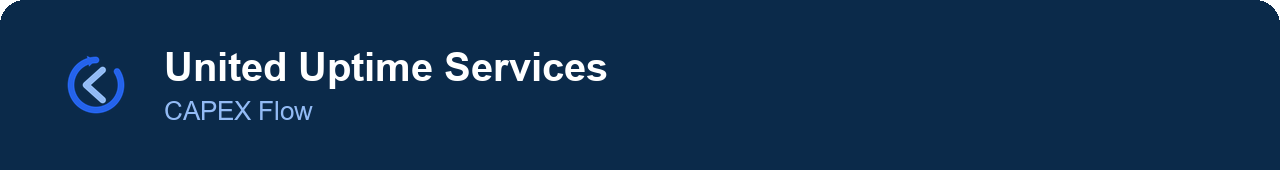
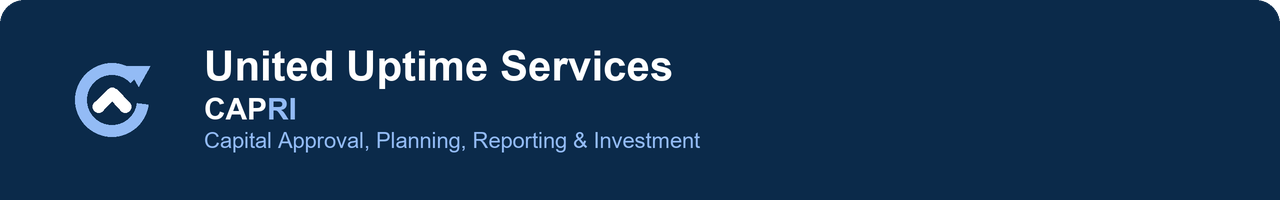
feat(brand): rename CAPEX Flow to CAPRI
Product is now CAPRI — Capital Approval, Planning, Reporting & Investment.
Per the spec in docs/superpowers/specs/2026-07-30-capri-rebrand-design.md:

- Two-tone wordmark (CAP + RI) via a new components/Wordmark.tsx, used by the
  sidebar, the login card, and the email-editor replica so the treatment can't
  drift. Accent reuses brand-sky/brand-blue rather than adding the brand
  sheet's #5B9BFF for two letters.
- Logo.tsx and favicon.svg realigned to brand direction 1d on its real
  100-unit viewBox. The shipped mark had drifted: its chevron pointed left and
  read as a back-arrow. It now points up, as 1d always specified.
- Email header band regenerated at 640x100 to carry the expanded name, by a
  new committed generator (backend/tools/gen_email_assets.py) — the old PNGs
  had none. Buttons and the closing strip are untouched; the generator's
  docstring records that --all yields pills a few px wider than the committed
  ones, which would need email_frame.BUTTONS updated.
- CID prefix capexflow- -> capri-, PDF footer, page title, Outlook temp-dir
  prefix, launcher renamed to "Start CAPRI.cmd", and the docs.
- brand/ asset paths fixed in four comments + CLAUDE.md: the new bundle lives
  under brand/project/.

CAPEX stays in the code on purpose — CapexRequest, capex_requests, CX000001
numbering, capex_dev.db, the repo folder — because a request still is a
capital expenditure. No migration.

Verified: backend pytest 236 passed; frontend tsc clean, vitest 91 passed,
[…]

Changed region(s): [[0.0312, 0.2353, 0.5625, 0.7647]]

diff --git a/frontend/src/components/Logo.tsx b/frontend/src/components/Logo.tsx
@@ -1,8 +1,11 @@
 /**
- * UUS CAPEX Flow logo mark — direction "1d Capital Cycle":
+ * UUS CAPRI logo mark — brand direction "1d Capital Cycle":
  * a circular flow arrow around a rising chevron (capital moving through the
- * approval cycle). `tile` renders it on a navy rounded-square app-icon tile;
- * without it the glyph is transparent for use on dark surfaces.
+ * approval cycle). Geometry is taken verbatim from
+ * brand/project/UUS CAPEX Flow - Logo.dc.html. `tile` renders it on a navy
+ * rounded-square app-icon tile; without it the glyph is transparent for use on
+ * dark surfaces. Every consumer draws it on navy, so the mark uses the brand's
+ * navy-surface colours (sky arc, white chevron).
  */
 export function Logo({
   size = 40,
@@ -17,28 +20,28 @@ export function Logo({
     <svg
       width={size}
       height={size}
-      viewBox="0 0 48 48"
+      viewBox="0 0 100 100"
       fill="none"
       className={className}
       role="img"
-      aria-label="UUS CAPEX Flow"
+      aria-label="UUS CAPRI"
     >
-      {tile && <rect width="48" height="48" rx="12" fill="#0B2A4A" />}
+      {tile && <rect width="100" height="100" rx="23" fill="#0B2A4A" />}
       {/* circular flow arrow (cycle) */}
       <path
-        d="M36.6 15.9 A15 15 0 1 1 24 9"
-        stroke="#2563EB"
-        strokeWidth="4"
+        d="M74 28 A33 33 0 1 0 82 54"
+        stroke="#93BBF5"
+        strokeWidth="11"
         strokeLinecap="round"
         fill="none"
       />
       {/* arrowhead at the head of the cycle */}
-      <path d="M24 9 L18.5 6.5 L19.8 13 Z" fill="#2563EB" />
+      <polygon points="63,20 84,20 74,38" fill="#93BBF5" />
       {/* rising chevron */}
-      <path
-        d="M28 15 L18 24 L28 33"
-        stroke="#93BBF5"
-        strokeWidth="4"
+      <polyline
+        points="38,56 50,44 62,56"
+        stroke="#ffffff"
+        strokeWidth="11"
         strokeLinecap="round"
         strokeLinejoin="round"
         fill="none"

diff --git a/frontend/src/routes/admin/EmailTemplateEditor.tsx b/frontend/src/routes/admin/EmailTemplateEditor.tsx
@@ -87,7 +87,13 @@ export default function EmailTemplateEditor() {
               <Logo size={40} />
               <div style={{ fontFamily: EMAIL_FONT }}>
                 <div className="text-xl font-bold text-white">United Uptime Services</div>
-                <div className="text-[13px] tracking-wide" style={{ color: '#93BBF5' }}>CAPEX Flow</div>
+                <div className="text-[13px] font-bold tracking-wide">
+                  <span className="text-white">CAP</span>
+                  <span style={{ color: '#93BBF5' }}>RI</span>
+                </div>
+                <div className="text-[11px]" style={{ color: '#93BBF5' }}>
+                  Capital Approval, Planning, Reporting &amp; Investment
+                </div>
               </div>
             </div>
             <QuillEditor value={data.body_html} onChange={(html) => { setBody(html); markDirty() }}
@@ -106,7 +112,7 @@ export default function EmailTemplateEditor() {
             <div className="px-7 py-4 text-xs" style={{
               borderTop: '1px solid #E2E8F0', color: '#64748B', fontFamily: EMAIL_FONT,
             }}>
-              Automated message from CAPEX Flow — please do not reply.
+              Automated message from CAPRI — please do not reply.
             </div>
           </div>
         </div>

diff --git a/frontend/src/routes/LoginPage.tsx b/frontend/src/routes/LoginPage.tsx
@@ -8,6 +8,7 @@ import { Button } from '../components/ui/Button'
 import { Input } from '../components/ui/Input'
 import { PasswordInput } from '../components/ui/PasswordInput'
 import { Logo } from '../components/Logo'
+import { Wordmark } from '../components/Wordmark'
 
 export default function LoginPage() {
   const [email, setEmail] = useState('')
@@ -38,7 +39,10 @@ export default function LoginPage() {
         <div className="mb-6 flex flex-col items-center text-center">
           <Logo size={52} tile className="mb-3" />
           <div className="text-xl font-bold text-fg">United Uptime Services</div>
-          <div className="text-sm text-muted">CAPEX Flow</div>
+          <Wordmark tone="light" className="text-base font-bold tracking-wide" />
+          <div className="mt-1 text-xs text-muted">
+            Capital Approval, Planning, Reporting &amp; Investment
+          </div>
         </div>
         <form className="space-y-4" onSubmit={(e) => { e.preventDefault(); mutation.mutate() }}>
           <div className="space-y-1">

diff --git a/frontend/src/components/Wordmark.tsx b/frontend/src/components/Wordmark.tsx
@@ -1,0 +1,21 @@
+/**
+ * CAPRI wordmark — "CAP" in the base colour, "RI" in the accent, per brand
+ * direction 1d (brand/project/UUS CAPEX Flow - Logo.dc.html).
+ *
+ * `tone` picks the surface: `dark` for navy (sidebar, email header band),
+ * `light` for white cards (login). The split lives here so the three
+ * consumers can't drift apart.
+ */
+export function Wordmark({ tone, className = '' }: {
+  tone: 'dark' | 'light'
+  className?: string
+}) {
+  const cap = tone === 'dark' ? 'text-white' : 'text-brand-navy'
+  const ri = tone === 'dark' ? 'text-brand-sky' : 'text-brand-blue'
+  return (
+    <span className={className}>
+      <span className={cap}>CAP</span>
+      <span className={ri}>RI</span>
+    </span>
+  )
+}

diff --git a/frontend/src/components/BrandMark.tsx b/frontend/src/components/BrandMark.tsx
@@ -1,6 +1,6 @@
 /**
- * The four UUS CAPEX Flow logo marks from the brand assets
- * (brand/UUS CAPEX Flow - Logo.dc.html), drawn for dark/navy surfaces:
+ * The four UUS CAPRI logo marks from the brand assets
+ * (brand/project/UUS CAPEX Flow - Logo.dc.html), drawn for dark/navy surfaces:
  *  - cycle  (1d "Capital Cycle")  — primary mark, same as components/Logo.tsx
  *  - ascent (twin rising chevrons) — used for the Requests section
  *  - check  (double checkmark)     — used for the Admin section
@@ -26,7 +26,7 @@ export function BrandMark({
     fill: 'none' as const,
     className,
     role: 'img',
-    'aria-label': 'UUS CAPEX Flow',
+    'aria-label': 'UUS CAPRI',
   }
   if (variant === 'ascent') {
     return (

diff --git a/frontend/src/components/AppShell.tsx b/frontend/src/components/AppShell.tsx
@@ -18,6 +18,7 @@ import { logout } from '../api/auth'
 import { Button } from './ui/Button'
 import { ThemeToggle } from './ThemeToggle'
 import { Logo } from './Logo'
+import { Wordmark } from './Wordmark'
 
 interface NavItem {
   to: string
@@ -82,7 +83,7 @@ export function AppShell() {
           <Logo size={36} />
           <div>
             <div className="font-bold leading-tight text-white">United Uptime Services</div>
-            <div className="text-xs text-brand-sky">CAPEX Flow</div>
+            <Wordmark tone="dark" className="text-xs font-semibold tracking-wide" />
           </div>
         </div>
         <nav className="flex-1 space-y-6 overflow-y-auto px-3 py-4">

diff --git a/frontend/src/routes/admin/EmailTemplatesPage.tsx b/frontend/src/routes/admin/EmailTemplatesPage.tsx
@@ -8,7 +8,7 @@ export default function EmailTemplatesPage() {
   const { data = [] } = useQuery({ queryKey: ['email-templates'], queryFn: listEmailTemplates })
   return (
     <div className="max-w-3xl">
-      <BrandCard title="Email Templates" subtitle="Customize the emails CAPEX Flow sends to users" mark="emailTemplates">
+      <BrandCard title="Email Templates" subtitle="Customize the emails CAPRI sends to users" mark="emailTemplates">
         <EmailDeliveryMode />
         <div className="space-y-2">
           {data.map((t) => (

diff --git a/frontend/src/components/ActionIcons.tsx b/frontend/src/components/ActionIcons.tsx
@@ -1,6 +1,6 @@
-// Custom UUS CAPEX Flow in-page icons — approval actions, table/row controls,
+// Custom UUS CAPRI in-page icons — approval actions, table/row controls,
 // and workflow status. Same line style as NavIcons (24px grid, rounded joins);
-// paths from brand/UUS CAPEX Flow Nav Icons.html ("Action & status icons").
+// paths from brand/project/UUS CAPEX Flow Nav Icons.html ("Action & status icons").
 // Icons use `currentColor` so each adopts its button/badge text color.
 
 export interface IconProps {

diff --git a/frontend/src/components/NavIcons.tsx b/frontend/src/components/NavIcons.tsx
@@ -1,6 +1,6 @@
-// Custom UUS CAPEX Flow navigation icons — one distinct symbol per page.
+// Custom UUS CAPRI navigation icons — one distinct symbol per page.
 // Drawn in a single line style (24px grid, rounded joins) per brand doc
-// `brand/UUS CAPEX Flow Nav Icons.html`. Icons inherit `currentColor` so the
+// `brand/project/UUS CAPEX Flow Nav Icons.html`. Icons inherit `currentColor` so the
 // sidebar's active/inactive text color applies, matching the prior lucide set.
 
 export interface NavIconProps {

diff --git a/frontend/index.html b/frontend/index.html
@@ -4,7 +4,7 @@
     <meta charset="UTF-8" />
     <meta name="viewport" content="width=device-width, initial-scale=1.0" />
     <link rel="icon" type="image/svg+xml" href="/favicon.svg" />
-    <title>CAPEX Flow — United Uptime Services</title>
+    <title>CAPRI — United Uptime Services</title>
     <script>
       // Apply saved theme before render to avoid a flash of the wrong theme.
       try {

diff --git a/frontend/src/index.css b/frontend/src/index.css
@@ -4,7 +4,7 @@
 @custom-variant dark (&:where(.dark, .dark *));
 
 @theme {
-  /* Brand palette (UUS CAPEX Flow brand sheet) */
+  /* Brand palette (UUS CAPRI brand sheet) */
   --color-brand-navy: #0B2A4A;
   --color-brand-blue: #2563EB;
   --color-brand-sky: #93BBF5;

diff --git a/backend/tools/gen_email_assets.py b/backend/tools/gen_email_assets.py
@@ -1,0 +1,182 @@
+"""Regenerate the baked email-chrome PNGs in ``backend/app/assets``.
+
+Classic Outlook renders mail with Word's engine: it cannot draw rounded corners
+from CSS and mangles VML on send, but it renders images perfectly. So the
+rounded chrome — the navy header band (logo mark + wordmark + tagline), the
+white closing strip, and each CTA pill — is baked into PNGs.
+
+The images are saved at **2x** their display size and scaled down by the
+``width``/``height`` attributes in ``email_frame.py``, which keeps them crisp on
+high-DPI screens. Everything is drawn at 4x and downsampled with LANCZOS to get
+antialiased arcs and text.
+
+Run from the ``backend`` directory::
+
+    python tools/gen_email_assets.py            # header only (the usual case)
+    python tools/gen_email_assets.py --all      # every asset
+    python tools/gen_email_assets.py --all --out /tmp/x   # dry run elsewhere
+
+Only the header carries the product name, so a rename needs nothing else
+regenerated. Commit the PNGs — they are not built at runtime.
+
+Caveat on ``--all``: the committed button pills predate this script and came out
+4-5px narrower than it produces (their original padding/hinting differed
+slightly). Regenerating them means updating the display widths in
+``email_frame.BUTTONS`` to whatever this script prints, or the ``<img width>``
+attribute will stretch the pill.
+"""
+
+import argparse
+import math
+import os
+
+from PIL import Image, ImageDraw, ImageFont
+
+NAVY = "#0B2A4A"
+BLUE = "#2563EB"
+SKY = "#93BBF5"
+WHITE = "#ffffff"
+
+FONT_BOLD = "C:/Windows/Fonts/arialbd.ttf"
+FONT_REG = "C:/Windows/Fonts/arial.ttf"
+
+SS = 4          # supersample: draw at 4x display, save at 2x
+SAVE = 2
+RADIUS = 12     # corner radius in display px
+
+ASSETS = os.path.join(os.path.dirname(__file__), "..", "app", "assets")
+
+# Button pills: display width comes out of the label, so it is printed for the
+# BUTTONS table in email_frame.py rather than hard-coded here.
+BUTTONS = {
+    "email_btn_assigned.png": "Review & approve",
+    "email_btn_approved.png": "View the request",
+    "email_btn_rejected.png": "Open the request",
+    "email_btn_finance_ready.png": "Complete the finance section",
+}
+
+
+def _font(path, size):
+    return ImageFont.truetype(path, int(size * SS))
+
+
+def _save(img, path):
+    w, h = img.size
+    out = img.resize((w * SAVE // SS, h * SAVE // SS), Image.LANCZOS)
+    out.save(path)
+    return out.size
+
+
+def _mark(d, x, y, size):
+    """Draw the 1d "Capital Cycle" mark: sky cycle arrow + white chevron.
+
+    Geometry is the brand file's 100-unit viewBox
+    (brand/project/UUS CAPEX Flow - Logo.dc.html, direction 1d), mapped onto a
+    `size`-wide box whose top-left corner is (x, y). Display units in, 4x out.
+    """
+    def px(v):
+        return (x + v * size / 100.0) * SS
+
+    def py(v):
+        return (y + v * size / 100.0) * SS
+
+    stroke = int(11 * size / 100.0 * SS)
+
+    # Cycle arc: the brand's SVG arc is a circle centred on (50,50) with r=33,
+    # open at the upper right where the arrowhead sits. PIL sweeps clockwise
+    # from `start` to `end` with 0 deg at 3 o'clock.
+    d.arc([px(50 - 33), py(50 - 33), px(50 + 33), py(50 + 33)],
+          start=math.degrees(math.atan2(4, 32)),
+          end=360 + math.degrees(math.atan2(-22, 24)),
+          fill=SKY, width=stroke)
+
+    # Arrowhead wedge at the head of the cycle.
+    d.polygon([(px(63), py(20)), (px(84), py(20)), (px(74), py(38))], fill=SKY)
+
+    # Rising chevron, round caps and join.
+    pts = [(px(38), py(56)), (px(50), py(44)), (px(62), py(56))]
+    d.line(pts, fill=WHITE, width=stroke, joint="curve")
+    for cx, cy in (pts[0], pts[2]):
+        r = stroke / 2
+        d.ellipse([cx - r, cy - r, cx + r, cy + r], fill=WHITE)
+
+
+def header(path, w=640, h=100):
+    img = Image.new("RGBA", (w * SS, h * SS), (0, 0, 0, 0))
+    d = ImageDraw.Draw(img)
+
+    # Round the TOP corners only: rounded rect, then square off the bottom.
+    d.rounded_rectangle([0, 0, w * SS - 1, h * SS - 1],
+                        radius=RADIUS * SS, fill=NAVY)
+    d.rectangle([0, (h - RADIUS) * SS, w * SS - 1, h * SS - 1], fill=NAVY)
+
+    mark = 56
+    _mark(d, 28, (h - mark) / 2, mark)
+
+    f_company = _font(FONT_BOLD, 21)
+    f_word = _font(FONT_BOLD, 15)
+    f_tag = _font(FONT_REG, 11)
+
+    text_x = (28 + mark + 18) * SS
+    lines_h = 25 + 18 + 15                      # display-px line boxes
+    y = (h - lines_h) / 2 * SS
+
+    d.text((text_x, y), "United Uptime Services", font=f_company, fill=WHITE)
+    y += 25 * SS
+
+    # Two-tone wordmark: CAP in white, RI in sky.
+    d.text((text_x, y), "CAP", font=f_word, fill=WHITE)
+    cap_w = d.textlength("CAP", font=f_word)
+    d.text((text_x + cap_w, y), "RI", font=f_word, fill=SKY)
+    y += 18 * SS
+
+    d.text((text_x, y), "Capital Approval, Planning, Reporting & Investment",
+           font=f_tag, fill=SKY)
+
+    size = _save(img, path)
+    print(f"{os.path.basename(path)}: saved {size[0]}x{size[1]}px, "
+          f"display {w}x{h}")
+
+
+def bottom(path, w=640, h=14):
+    img = Image.new("RGBA", (w * SS, h * SS), (0, 0, 0, 0))
+    d = ImageDraw.Draw(img)
+    # Round the BOTTOM corners only.
+    d.rounded_rectangle([0, 0, w * SS - 1, h * SS - 1],
+                        radius=RADIUS * SS, fill=WHITE)
+    d.rectangle([0, 0, w * SS - 1, RADIUS * SS], fill=WHITE)
+    size = _save(img, path)
+    print(f"{os.path.basename(path)}: saved {size[0]}x{size[1]}px, "
+          f"display {w}x{h}")
+
+
+def button(path, label, h=44, pad=24):
+    f = _font(FONT_BOLD, 15)
+    text_w = ImageDraw.Draw(Image.new("RGB", (1, 1))).textlength(label, font=f)
+    w = int(text_w / SS) + 2 * pad
+    img = Image.new("RGBA", (w * SS, h * SS), (0, 0, 0, 0))
+    d = ImageDraw.Draw(img)
+    d.rounded_rectangle([0, 0, w * SS - 1, h * SS - 1],
+                        radius=h * SS // 2, fill=BLUE)
+    d.text((w * SS // 2, h * SS // 2), label, font=f, fill=WHITE, anchor="mm")
+    _save(img, path)
+    # email_frame.BUTTONS needs the DISPLAY width, not the pixel width.
+    print(f"{os.path.basename(path)}: display width={w}, height={h}")
+
+
+def main():
+    ap = argparse.ArgumentParser(description=__doc__)
+    ap.add_argument("--out", default=ASSETS, help="output directory")
+    ap.add_argument("--all", action="store_true",
+                    help="also regenerate the closing strip and CTA buttons")
+    args = ap.parse_args()
+
+    header(os.path.join(args.out, "email_header.png"))
+    if args.all:
+        bottom(os.path.join(args.out, "email_bottom.png"))
+        for name, label in BUTTONS.items():
+            button(os.path.join(args.out, name), label)
+
+
+if __name__ == "__main__":
+    main()
